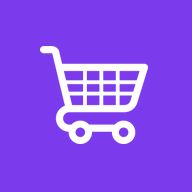
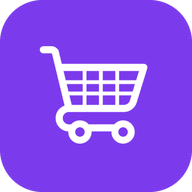
v1.74: ícono con esquinas redondeadas como el del Tarifario
Claude-Session: https://claude.ai/code/session_01DhVgd7Et6QmT3shziodnjZ

diff --git a/sw.js b/sw.js
@@ -1,8 +1,8 @@
 // Permite instalar la app y abrirla sin internet. Las ventas las guarda Firebase (con su propia caché).
-const CACHE = 'pos-v1.73';
+const CACHE = 'pos-v1.74';
 const LIBS = 'libs-v1'; // Firebase y la fuente: archivos con versión fija
 const FOTOS = 'fotos-v1';
-const SHELL = ['./', './index.html', './config.js', './manifest.webmanifest', './icono-192.png', './icono-512.png', './logo-carrito.png',
+const SHELL = ['./', './index.html', './config.js', './manifest.webmanifest', './icono-192.png', './icono-512.png', './icono-maskable-512.png', './apple-touch-icon.png', './logo-carrito.png',
   './css/tokens.css', './css/base.css', './css/componentes.css', './css/material.css',
   './js/principal.js', './js/app.js', './js/ui.js', './js/version.js'];
 

diff --git a/index.html b/index.html
@@ -7,7 +7,7 @@
 <meta name="theme-color" content="#15803d">
 <link rel="manifest" href="manifest.webmanifest">
 <link rel="icon" href="icono-192.png">
-<link rel="apple-touch-icon" href="icono-192.png">
+<link rel="apple-touch-icon" href="apple-touch-icon.png">
 <meta name="apple-mobile-web-app-capable" content="yes">
 <link rel="preconnect" href="https://fonts.googleapis.com">
 <link rel="preconnect" href="https://fonts.gstatic.com" crossorigin>

diff --git a/js/version.js b/js/version.js
@@ -1,2 +1,2 @@
 // Sube en cada cambio publicado, junto con CACHE en sw.js.
-export const APP_VERSION = 'v1.73';
+export const APP_VERSION = 'v1.74';

diff --git a/docs/superpowers/decisiones-fase1.md b/docs/superpowers/decisiones-fase1.md
@@ -383,3 +383,4 @@ Suite final: npm test 99/99 · e2e 59/59
   - Orden: foto del código → foto del sku (respaldo) → ícono gris de la prenda.
   - En Inventario: «Fotos» empareja los archivos por código (img-0001.jpg/.png/.webp) y si no, por sku; muestra «N de M productos con foto · K códigos de imagen sin foto». En el detalle de cada prenda, botón «Foto» / «Cambiar foto» que sube al código de esa tarjeta.
   - Inventario real: 1.369 productos, 346 códigos de imagen, ninguno vacío; sin fotos subidas todavía (0 con foto, 346 códigos sin foto).
+- v1.74: ícono de la app con esquinas redondeadas como el del Tarifario (radio 112 de 512, fondo transparente) para «any»; aparte icono-maskable-512.png cuadrado para Android y apple-touch-icon.png de 180 px para el iPhone.
